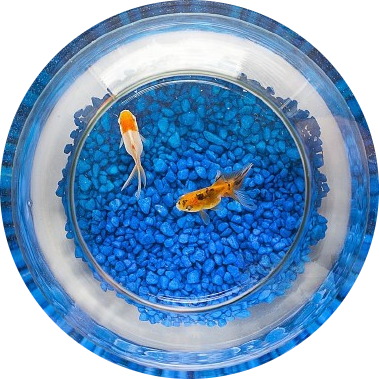
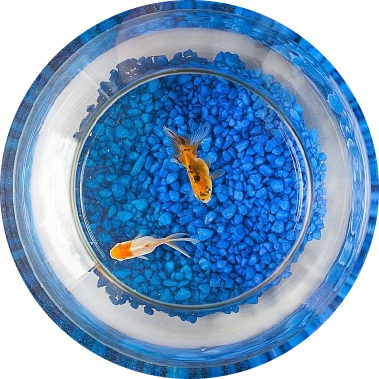
WIP fishes (todo: finir fish2 sur mobile)

diff --git a/src/app/Components/HomePage/HomePage.js b/src/app/Components/HomePage/HomePage.js
@@ -462,42 +462,69 @@ export function HomePage({isMobile}) {
 
 
 
-            {/* Plante + fishBowl */}
 
-                {/* Plante */}
-                <div 
-                    className={`plantAccueil-div`} 
-                    style={{width:"fit-content"}}
-                    onClick={handleMockupDeskClick}
-                >
+            {/* Plante */}
+            <div 
+                className={`plantAccueil-div`} 
+                style={{width:"fit-content"}}
+                onClick={handleMockupDeskClick}
+            >
 
-                    <Image 
-                        src="/plant-1-min.png" 
-                        width={isMobile ? 450 : 520} 
-                        height={isMobile ? 450 : 520} 
-                        className={`plantAccueil ${isFadingOut ? "fadeOut" : ""}`} 
-                        alt={"decoration plant"} 
-                    />
+                <Image 
+                    src="/plant-1-min.png" 
+                    width={isMobile ? 450 : 520} 
+                    height={isMobile ? 450 : 520} 
+                    className={`plantAccueil ${isFadingOut ? "fadeOut" : ""}`} 
+                    alt={"decoration plant"} 
+                />
 
-                    <div className={`bocal-exterieur ${isFadingOut ? "fadeOut" : ""}`}>
-                        <div className="bocal-ouverture"></div>
-                        <div className="bocal-landscape"></div>
-                    </div>
-
+                <div className={`bocal-exterieur ${isFadingOut ? "fadeOut" : ""}`}>
+                    <div className="bocal-ouverture"></div>
+                    <div className="bocal-landscape"></div>
                 </div>
 
+            </div>
 
-                {/* Test fish bowl (loisirs) */}
-                <div className={`fishBowl-div`}>
+
+
+
+            {/* fish bowl */}
+            <div className={`fishBowl-div`}>
+
+                {/* Bocal vide */}
+                <Image 
+                    // src="/fishBowl-rounded2.png" 
+                    src="/fishBowl-rounded2-withoutFish.png"
+                    width={320} 
+                    height={320} 
+                    style={{transform: "rotate(182deg)", filter:"hue-rotate(334deg)"}}
+                    className={`fishBowl-img ${isFadingOut ? "fadeOut" : ""}`}
+                    alt={"fish bowl decoration"}
+                />
+
+                {/* Poisson 1 */}
+                <div className="fish1">
                     <Image 
-                        src="/fishBowl-rounded2.png" 
-                        width={320} 
-                        height={320} 
-                        style={{transform: "rotate(182deg)", filter:"hue-rotate(334deg)"}}
-                        className={`fishBowl-img ${isFadingOut ? "fadeOut" : ""}`}
-                        alt={"fish bowl decoration"}
+                        src={"/fish1_v2.png"}
+                        width={90}
+                        height={90}
+                        className="fish1-img"
+                        alt="poisson"
                     />
                 </div>
+
+                {/* Poisson 2 */}
+                <div className="fish2">
+                    <Image 
+                        src={"/fish2.png"}
+                        width={90}
+                        height={90}
+                        className="fish2-img"
+                        alt="poisson"
+                    />
+                </div>
+                        
+            </div>
 
 
 

diff --git a/src/app/globals-phone.css b/src/app/globals-phone.css
@@ -1316,6 +1316,98 @@
     }
 
 
+
+
+
+    .fish1 {
+        position: absolute;
+        top: 50%;
+        left: 50%;
+        z-index: 999999;
+        pointer-events: none;
+      
+        opacity: 0;
+        transform: rotate(173deg) translate(32px, 111px);
+        animation: fish1-fadeIn 3s 0.8s ease forwards;
+      }
+      @keyframes fish1-fadeIn {
+        0% {
+          opacity: 0;
+          transform: rotate(173deg) translate(32px, 111px);
+        }
+        100% {
+          opacity: 1;
+          transform: rotate(173deg) translate(15px, 28px);
+        }
+      }
+      
+      .fish1-img {
+        transform: rotate(0deg) translate(0px, 0px);
+        animation: fish1-img-wiggle 12s 0s ease-in-out infinite;
+      } 
+      @keyframes fish1-img-wiggle {
+        0% {
+          transform: rotate(0deg) translate(0px, 0px);
+        }
+        25% {
+          transform: rotate(10deg) translate(-5px, 5px);
+        }
+        50% {
+          transform: rotate(20deg) translate(0px, 0px);
+        }
+        75% {
+          transform: rotate(5deg) translate(-5px, 5px);
+        }
+        100% {
+          transform: rotate(0deg) translate(0px, 0px);
+        }
+      }
+      
+      .fish2 {
+        position: absolute;
+        top: 50%;
+        left: 50%;
+        z-index: 999999;
+        pointer-events: none;
+      
+        opacity: 0;
+        transform: rotate(323deg) translate(-55px, -63px);
+        animation: fish2-fadeIn 3s 0.8s ease forwards;
+      }
+      @keyframes fish2-fadeIn {
+        from {
+          opacity: 0;
+          transform: rotate(323deg) translate(-55px, -63px);
+        }
+        to {
+          opacity: 1;
+          transform: rotate(323deg) translate(-55px, -63px);
+        }
+      }
+      
+      .fish2-img {
+        transform: rotate(0deg) translate(0px, 0px);
+        animation: fish1-img-wiggle 13s 0s ease-in-out infinite;
+      } 
+      @keyframes fish2-img-wiggle {
+        0% {
+          transform: rotate(0deg) translate(0px, 0px);
+        }
+        25% {
+          transform: rotate(2deg) translate(-10px, 10px);
+        }
+        50% {
+          transform: rotate(12deg) translate(0px, 0px);
+        }
+        75% {
+          transform: rotate(2deg) translate(-10px, 10px);
+        }
+        100% {
+          transform: rotate(0deg) translate(0px, 0px);
+        }
+      }
+
+
     .accueil-visitCard-content {
         font-size: 0.85em;
     }

diff --git a/src/app/globals.css b/src/app/globals.css
@@ -618,6 +618,94 @@ main {
 }
 
 
+.fish1 {
+  position: absolute;
+  top: 50%;
+  left: 50%;
+  z-index: 999999;
+  pointer-events: none;
+
+  opacity: 0;
+  transform: rotate(173deg) translate(32px, 111px);
+  animation: fish1-fadeIn 3s 0.8s ease forwards;
+}
+@keyframes fish1-fadeIn {
+  from {
+    opacity: 0;
+    transform: rotate(173deg) translate(32px, 111px);
+  }
+  to {
+    opacity: 1;
+    transform: rotate(173deg) translate(22px, 29px);
+  }
+}
+
+.fish1-img {
+  transform: rotate(0deg) translate(0px, 0px);
+  animation: fish1-img-wiggle 12s 0s ease-in-out infinite;
+} 
+@keyframes fish1-img-wiggle {
+  0% {
+    transform: rotate(0deg) translate(0px, 0px);
+  }
+  25% {
+    transform: rotate(5deg) translate(-5px, 5px);
+  }
+  50% {
+    transform: rotate(10deg) translate(0px, 0px);
+  }
+  75% {
+    transform: rotate(5deg) translate(-5px, 5px);
+  }
+  100% {
+    transform: rotate(0deg) translate(0px, 0px);
+  }
+}
+
+.fish2 {
+  position: absolute;
+  top: 50%;
+  left: 50%;
+  z-index: 999999;
+  pointer-events: none;
+
+  opacity: 0;
+  transform: rotate(323deg) translate(-55px, -63px);
+  animation: fish2-fadeIn 3s 0.8s ease forwards;
+}
+@keyframes fish2-fadeIn {
+  from {
+    opacity: 0;
+    transform: rotate(323deg) translate(-55px, -63px);
+  }
+  to {
+    opacity: 1;
+    transform: rotate(323deg) translate(-55px, -63px);
+  }
+}
+
+.fish2-img {
+  transform: rotate(0deg) translate(0px, 0px);
+  animation: fish1-img-wiggle 13s 0s ease-in-out infinite;
+} 
+@keyframes fish2-img-wiggle {
+  0% {
+    transform: rotate(0deg) translate(0px, 0px);
+  }
+  25% {
+    transform: rotate(2deg) translate(-10px, 10px);
+  }
+  50% {
+    transform: rotate(12deg) translate(0px, 0px);
+  }
+  75% {
+    transform: rotate(2deg) translate(-10px, 10px);
+  }
+  100% {
+    transform: rotate(0deg) translate(0px, 0px);
+  }
+}
+
 .homePageHeadphones {
   position: absolute;
   bottom: 0;
